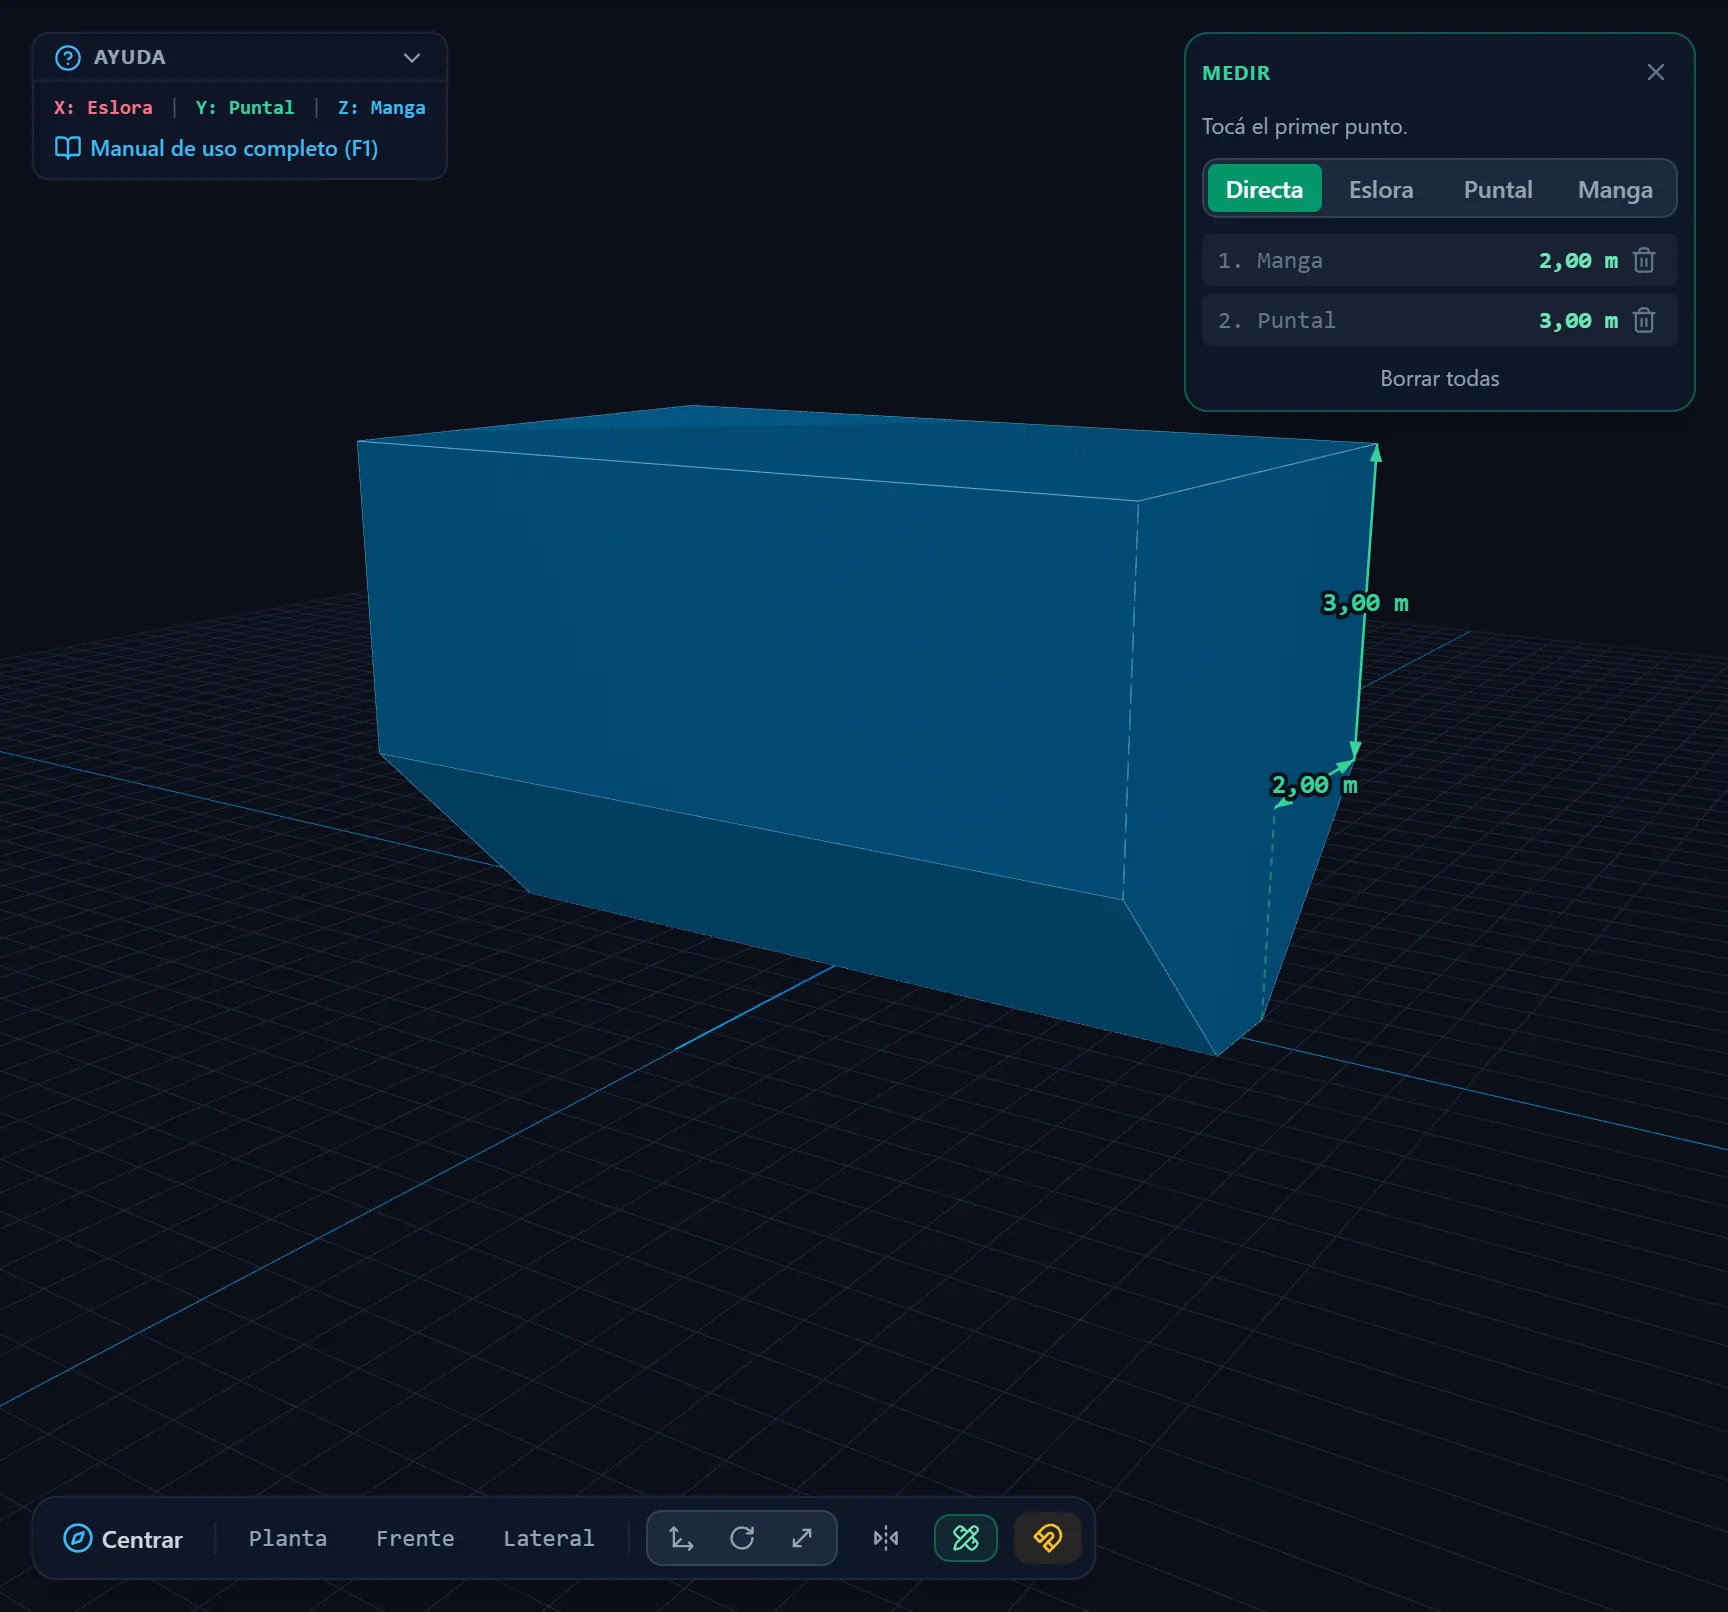
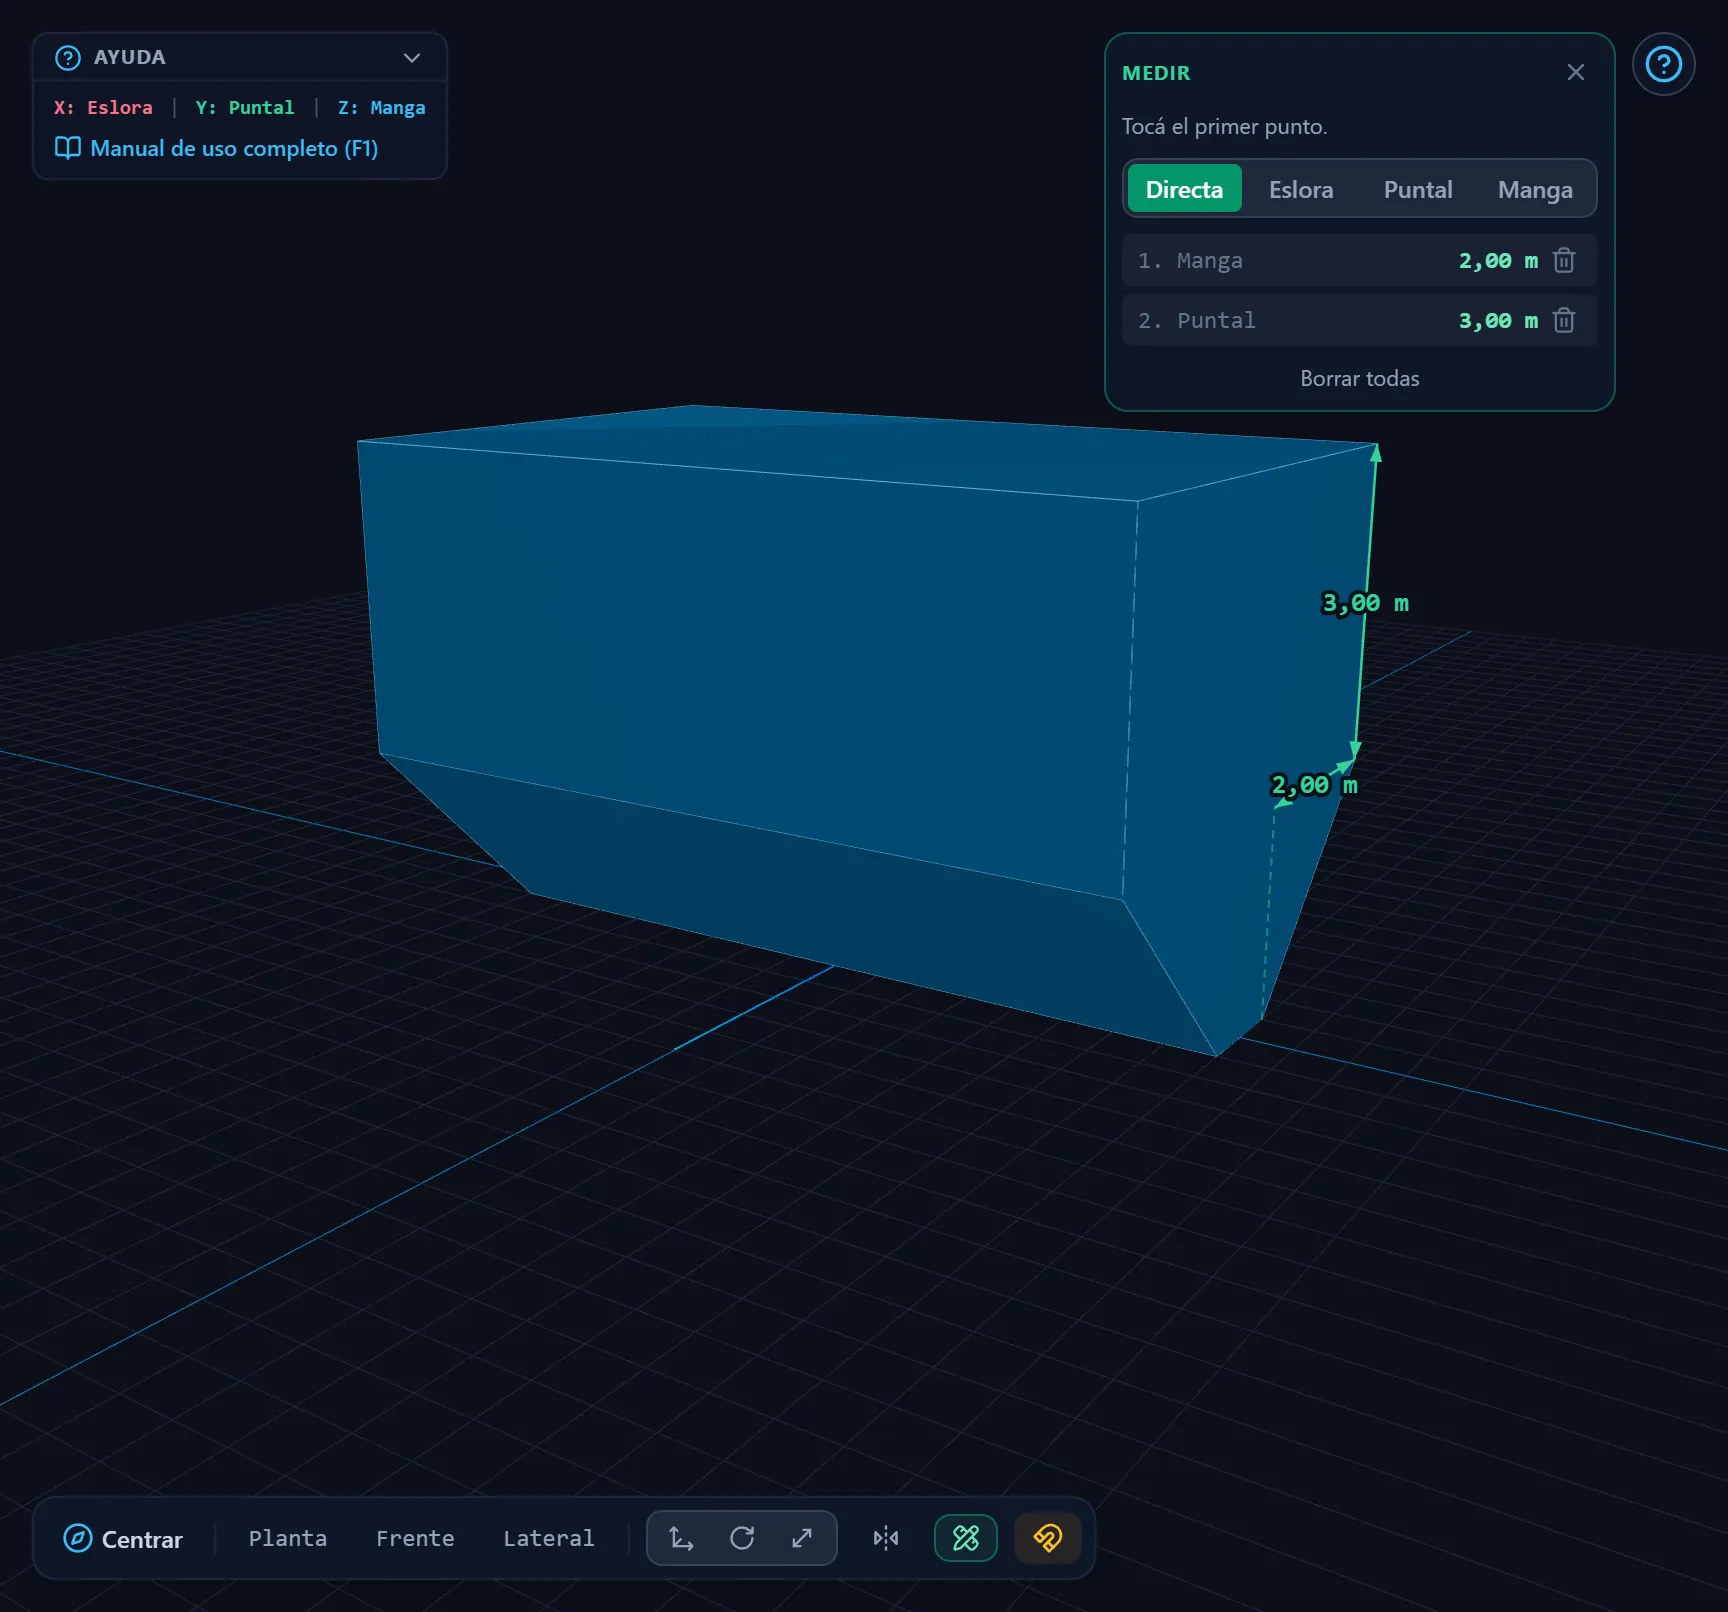
feat(ayuda): botón ? en la esquina del visor para abrir el manual
El manual quedaba escondido en el teléfono (Más → Manual de uso). Ahora
hay un botón redondo siempre a la vista en cualquier tamaño de pantalla;
la ventana de cotas y el panel Medir se corren para hacerle lugar.
Manual y capturas actualizados.

Changed region(s): [[0.625, 0.031, 0.9688, 0.2481], [0.9375, 0.031, 1.0, 0.062]]

diff --git a/src/components/Viewport3D.vue b/src/components/Viewport3D.vue
@@ -5,12 +5,13 @@
 
     <DimensionOverlay :shapes="overlayShapes" :markers="overlayMarkers" />
 
-    <!-- Medir: en escritorio arriba a la derecha; en el teléfono sobre los controles -->
+    <!-- Medir: en escritorio arriba a la derecha (junto al botón de ayuda); en el
+         teléfono sobre los controles -->
     <MeasurePanel
       v-if="store.measureMode"
       :pending="!!measureStart"
       class="absolute z-20"
-      :class="layout.isPhone ? 'bottom-16 left-2 right-2' : (layout.isCompact ? 'top-2 right-2 w-60' : 'top-4 right-4 w-64')"
+      :class="layout.isPhone ? 'bottom-16 left-2 right-2' : (layout.isCompact ? 'top-2 right-[3.25rem] w-60' : 'top-4 right-14 w-64')"
     />
 
     <!-- Medida en vivo mientras se estira -->
@@ -81,7 +82,7 @@
     <div
       v-if="store.showDimensions && !store.measureMode && store.selectedBlock && selectedDef && !layout.isPhone"
       class="absolute z-20 bg-slate-900/95 backdrop-blur border border-slate-800 rounded-xl shadow-lg font-mono text-xs text-slate-300 space-y-1"
-      :class="layout.isCompact ? 'top-2 right-2 p-2' : 'top-4 right-4 p-3'"
+      :class="layout.isCompact ? 'top-2 right-[3.25rem] p-2' : 'top-4 right-14 p-3'"
     >
       <div class="text-[10px] font-bold uppercase tracking-wider text-sky-400 font-sans mb-1">
         {{ layout.isCompact ? 'Cotas' : 'Cotas del Bloque Seleccionado' }}

diff --git a/src/components/HelpButton.vue b/src/components/HelpButton.vue
@@ -1,0 +1,17 @@
+<template>
+  <!-- Acceso al manual siempre a la vista, en la esquina del visor -->
+  <button
+    @click="openManual()"
+    :title="layout.isTouch ? 'Ayuda: manual de uso' : 'Ayuda: manual de uso (F1)'"
+    aria-label="Ayuda: manual de uso"
+    class="absolute z-[31] flex items-center justify-center rounded-full bg-slate-900/80 backdrop-blur border border-slate-700 text-sky-400 hover:text-white hover:bg-slate-800 shadow-lg transition"
+    :class="[layout.isCompact ? 'top-2 right-2' : 'top-4 right-4', layout.isTouch ? 'w-9 h-9' : 'w-8 h-8']"
+  >
+    <CircleHelp class="w-5 h-5" />
+  </button>
+</template>
+
+<script setup>
+import { CircleHelp } from 'lucide-vue-next'
+import { layout, openManual } from '../services/layout'
+</script>

diff --git a/src/App.vue b/src/App.vue
@@ -78,6 +78,7 @@
               </button>
             </div>
           </div>
+          <HelpButton />
         </main>
 
         <!-- Inspector Derecho de Propiedades (escritorio) -->
@@ -139,6 +140,7 @@ import Viewport3D from './components/Viewport3D.vue'
 import PropertiesPanel from './components/PropertiesPanel.vue'
 import AppDialog from './components/AppDialog.vue'
 import ManualDialog from './components/ManualDialog.vue'
+import HelpButton from './components/HelpButton.vue'
 import RecordForm from './components/RecordForm.vue'
 
 const store = useEditorStore()

diff --git a/docs/06-manual-de-usuario.md b/docs/06-manual-de-usuario.md
@@ -4,7 +4,7 @@
 
 No hace falta saber de diseño 3D. Este manual explica todo desde cero, con un ejemplo completo que se puede seguir paso a paso.
 
-> **Dónde leer este manual:** dentro de la app, en el botón **Manual** de la barra superior (en tablet y teléfono, en **Más → Manual de uso**), o con la tecla **F1**.
+> **Dónde leer este manual:** dentro de la app, con el botón redondo **?** de la esquina superior derecha del visor, en cualquier pantalla. También con el botón **Manual** de la barra superior (en tablet y teléfono, en **Más → Manual de uso**) o la tecla **F1**.
 
 ## Índice
 
@@ -154,7 +154,9 @@ En la barra flotante de abajo del visor:
 - **Frente**: desde proa, mirando hacia popa.
 - **Lateral**: desde babor, mirando el largo del pozo.
 
-### Panel de ayuda
+### Ayuda
+
+El botón redondo **?**, arriba a la derecha del visor, abre este manual desde cualquier pantalla.
 
 Arriba a la izquierda del visor está el panel **Ayuda**, con los controles del mouse y los colores de los ejes. Se pliega o se abre con un clic, y la app recuerda la preferencia.
 
